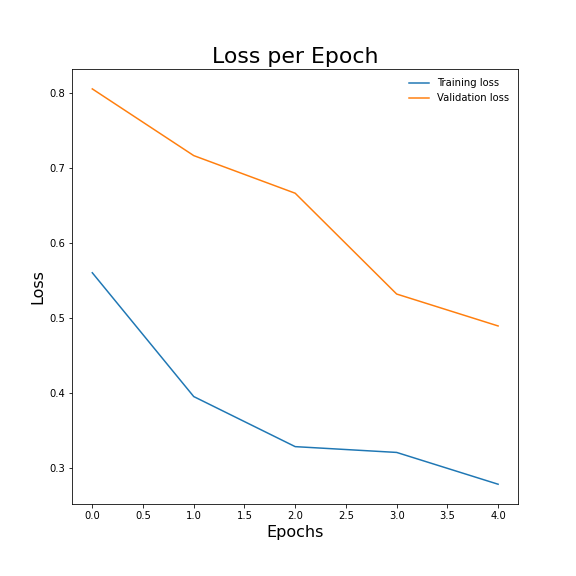
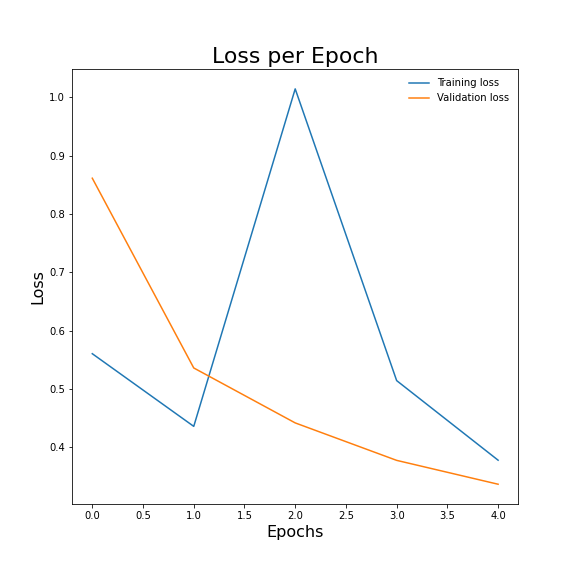
Unet

diff --git a/main.py b/main.py
@@ -11,7 +11,7 @@ import torch.nn as nn
 import torchvision.transforms as T
 import numpy as np
 from customDataset import CustomDataset
-from models import DeepLabModel, LrASPPModel
+from models import DeepLabModel, LrASPPModel, get_Unet
 from tqdm import tqdm
 import matplotlib.pyplot as plt
 from evaluation_metrics import meanIOU, pixelAcc, count_parameters
@@ -115,7 +115,7 @@ def train(model, train_loader, test_loader, criterion, optimizer, EPOCHS):
 if __name__ == "__main__":
 
     #Data directory
-    img_dir = 'data'
+    img_dir = 'Data_OCID'
     
     #Trainging Params
     BATCH_SIZE = 16
@@ -136,11 +136,11 @@ if __name__ == "__main__":
             ])
     
     #Dataset
-    dataset = CustomDataset(img_path = img_dir,
+    dataset = CustomDataset(img_dir = img_dir,
                             transform=transform)
     
     #train test split
-    train_dataset , test_dataset = random_split(dataset,(80,20))
+    train_dataset , test_dataset = random_split(dataset,(500,74))
     
         
     #DataLoader
@@ -152,8 +152,9 @@ if __name__ == "__main__":
                              batch_size= BATCH_SIZE)
     
     #Model
-    #model = DeepLabModel(num_classes=43).to(device=DEVICE)
-    model = LrASPPModel(num_classes=43).to(device=DEVICE)
+    #model = DeepLabModel(num_classes=23).to(device=DEVICE)
+    #model = LrASPPModel(num_classes=23).to(device=DEVICE)
+    model = get_Unet(num_classes=23).to(device=DEVICE)
     
     #loss function
     criterion = nn.CrossEntropyLoss()
@@ -163,7 +164,7 @@ if __name__ == "__main__":
     
     
     #number of parameters
-    print('Number of trainable parameters :',count_parameters(model))
+    print('Number of trainable parameters :', count_parameters(model))
     
     #train
     trained_model, train_loss, val_loss = train(model, train_loader, test_loader,

diff --git a/models.py b/models.py
@@ -9,6 +9,8 @@ import torch.nn as nn
 import torchvision
 from torchvision.models.segmentation.deeplabv3 import DeepLabHead
 from torchvision.models.segmentation.lraspp import LRASPPHead
+import segmentation_models_pytorch as smp
+
 
 class DeepLabModel(nn.Module):
     
@@ -33,7 +35,7 @@ class LrASPPModel(nn.Module):
         super(LrASPPModel, self).__init__()
         self.num_classes = num_classes
         self.model = torchvision.models.segmentation.lraspp_mobilenet_v3_large(pretrained=False
-                                                                              , num_classes=43
+                                                                              , num_classes=self.num_classes
                                                                                )
         
         #self.model.classifier = LRASPPHead(64, 64,self.num_classes, 64)
@@ -43,3 +45,11 @@ class LrASPPModel(nn.Module):
         y = self.model(x)['out']
     
         return y
+    
+def get_Unet(num_classes):
+    model =  smp.Unet(
+                 encoder_name='resnet34',
+                 encoder_weights='imagenet',
+                 in_channels=3,
+                 classes=num_classes)
+    return model

diff --git a/customDataset.py b/customDataset.py
@@ -19,7 +19,7 @@ class CustomDataset(Dataset):
         
         self.img_dir = img_dir
         self.imgs = list(sorted(os.listdir(self.img_dir +'\\images')))
-        self.masks = list(sorted(os.listdir(self.img_dir + '\\masks')))
+        self.masks = list(sorted(os.listdir(self.img_dir + '\\labels')))
         self.transform = transform
     
     def __len__(self):
@@ -29,7 +29,7 @@ class CustomDataset(Dataset):
     def __getitem__(self, index):
         
         image = os.path.join(self.img_dir, 'images', self.imgs[index])
-        mask_path = os.path.join(self.img_dir, 'masks', self.masks[index])
+        mask_path = os.path.join(self.img_dir, 'labels', self.masks[index])
         
         img = Image.open(image).convert("RGB")
         mask = Image.open(mask_path)
@@ -47,6 +47,11 @@ class CustomDataset(Dataset):
                
         return  img, mask
 
+transform = T.Compose([
+            T.Resize((128, 128)),
+            ])
+dataset = CustomDataset(img_dir = 'Data_OCID',
+                        transform=transform)
 
 #the dimensions of the image are (480,640, 3)
 #the dimensions of the mask are (480,640)

diff --git a/evaluation_metrics.py b/evaluation_metrics.py
@@ -47,7 +47,7 @@ from torchmetrics import IoU
 # =============================================================================
 
 
-def meanIOU(label, pred, num_classes = 43):
+def meanIOU(label, pred, num_classes = 23):
     
     with torch.no_grad():
         
